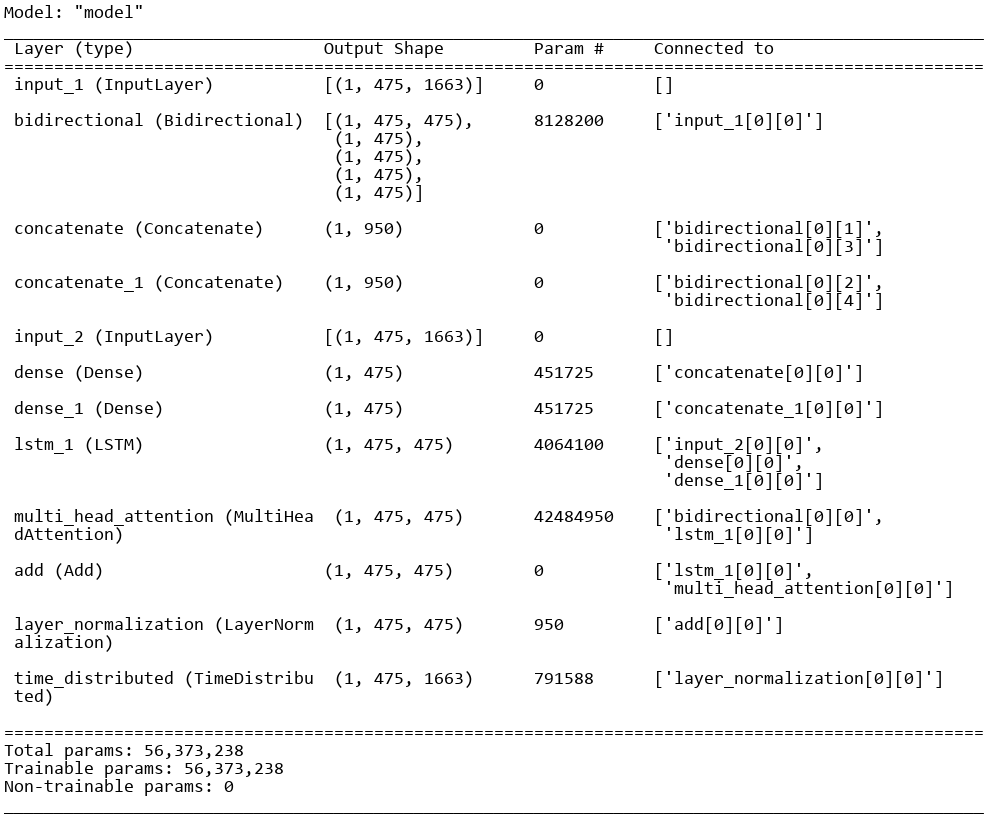
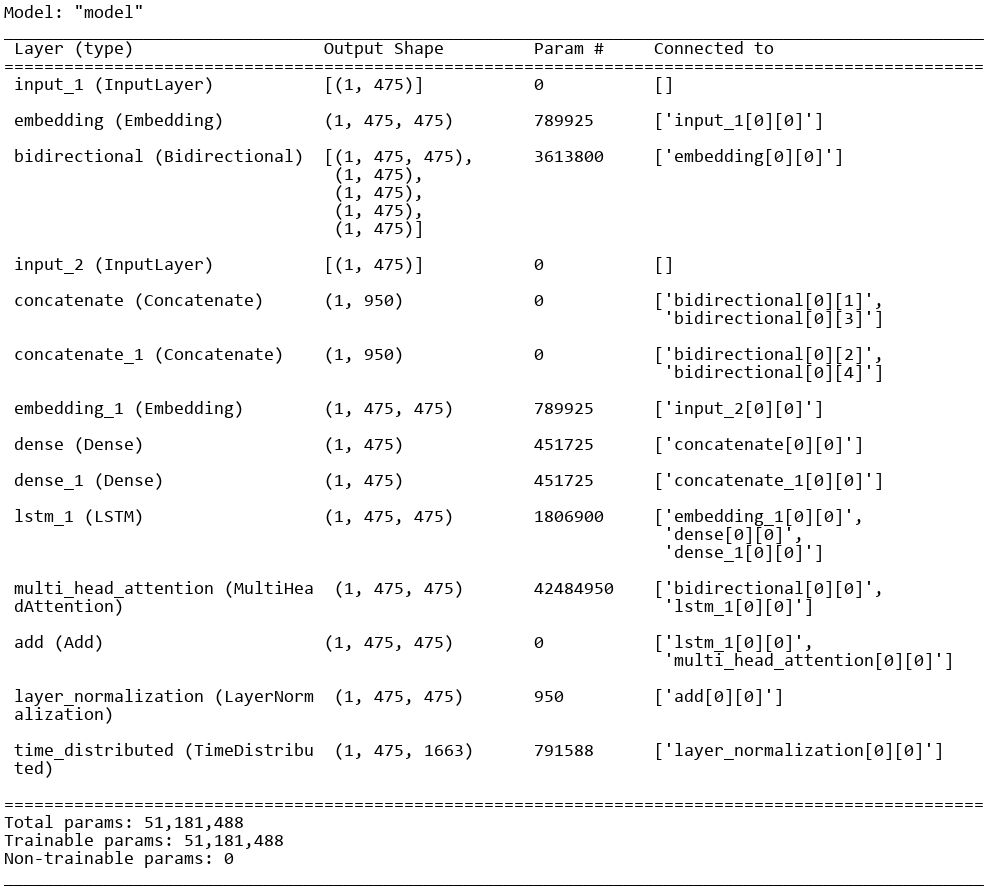
Embedding fix

diff --git a/src/chatbot/network/model.py b/src/chatbot/network/model.py
@@ -17,11 +17,11 @@ class Sec2SecModel:
         return self.model.predict([phrase_sequence, target_seq])
 
     def create(self, max_phrase_size, vocab_size):
-        encoder_inputs = keras.layers.Input(shape=(max_phrase_size, vocab_size), batch_size=1)
-        decoder_inputs = keras.layers.Input(shape=(max_phrase_size, vocab_size), batch_size=1)
+        encoder_inputs = keras.layers.Input(shape=(max_phrase_size, ), batch_size=1)
+        decoder_inputs = keras.layers.Input(shape=(max_phrase_size, ), batch_size=1)
 
-        encoder_outputs, encoder_states = self.__create_encoder(encoder_inputs, max_phrase_size)
-        decoder_outputs = self.__create_decoder(decoder_inputs, encoder_states, max_phrase_size)
+        encoder_outputs, encoder_states = self.__create_encoder(encoder_inputs, max_phrase_size, vocab_size)
+        decoder_outputs = self.__create_decoder(decoder_inputs, encoder_states, max_phrase_size, vocab_size)
         attention = self.__create_attention(encoder_outputs, decoder_outputs, max_phrase_size)
         dense_outputs = self.__create_exit_layer(attention, vocab_size)
 
@@ -57,13 +57,15 @@ class Sec2SecModel:
     def plot_model(self, file_name):
         keras.utils.plot_model(self.model, show_shapes=True, to_file=file_name)
 
-    def __create_encoder(self, encoder_inputs, max_phrase_size):
+    def __create_encoder(self, encoder_inputs, max_phrase_size, vocab_size):
+        embedd = keras.layers.Embedding(input_dim=vocab_size, output_dim=max_phrase_size, input_length=max_phrase_size)
         encoder_lstm = keras.layers.LSTM(
             max_phrase_size, return_state=True, return_sequences=True, recurrent_initializer='glorot_uniform'
         )
         bidirectional_lstm = keras.layers.Bidirectional(encoder_lstm, merge_mode='sum')
 
-        encoder_outputs, forward_h, forward_c, backward_h, backward_c = bidirectional_lstm(encoder_inputs)
+        embedding_output = embedd(encoder_inputs)
+        encoder_outputs, forward_h, forward_c, backward_h, backward_c = bidirectional_lstm(embedding_output)
 
         state_h = keras.layers.Concatenate()([forward_h, backward_h])
         state_c = keras.layers.Concatenate()([forward_c, backward_c])
@@ -83,11 +85,13 @@ class Sec2SecModel:
 
         return output
 
-    def __create_decoder(self, decoder_inputs, encoder_states, max_phrase_size):
+    def __create_decoder(self, decoder_inputs, encoder_states, max_phrase_size, vocab_size):
+        embedd = keras.layers.Embedding(input_dim=vocab_size, output_dim=max_phrase_size, input_length=max_phrase_size)
         decoder_lstm = keras.layers.LSTM(
             max_phrase_size, return_sequences=True, recurrent_initializer='glorot_uniform'
         )
-        decoder_outputs = decoder_lstm(decoder_inputs, initial_state=encoder_states)
+        embedding_output = embedd(decoder_inputs)
+        decoder_outputs = decoder_lstm(embedding_output, initial_state=encoder_states)
         return decoder_outputs
 
     def __create_exit_layer(self, decoder_outputs, vocab_size):

diff --git a/src/chatbot/chatbot.py b/src/chatbot/chatbot.py
@@ -10,8 +10,6 @@ singleton_vocabulary = Vocabulary()
 
 class Chatbot:
     def __init__(self):
-        self.questions_len = 0
-
         self.text_pln = singleton_text_pln
         self.vocabulary = singleton_vocabulary
         self.conversations = singleton_conversations
@@ -21,8 +19,6 @@ class Chatbot:
     def create(self):
         self.conversations.load_and_process(self.vocabulary.END_TAG)
         questions, answers = self.conversations.get_all_questions_and_answers()
-
-        self.questions_len = len(questions)
 
         max_phrase_size = 0
         max_phrase = ''
@@ -44,7 +40,13 @@ class Chatbot:
             questions, answers = self.conversations.get_questions_and_answers_of_index(index)
             return self.vocabulary.phrases2data(questions, answers)
 
-        return self.model.fit(get_conversation_data, self.conversations.get_size(), self.questions_len, epochs, metrics)
+        return self.model.fit(
+            get_conversation_data,
+            self.conversations.get_size(),
+            self.conversations.get_questions_len(),
+            epochs,
+            metrics
+        )
 
     def execute(self, question, last_answer):
         last_answer = self.text_pln.clear_and_tagging_phrases(

diff --git a/src/chatbot/pln/vocabulary.py b/src/chatbot/pln/vocabulary.py
@@ -20,15 +20,18 @@ class Vocabulary:
 
     def phrases2data(self, questions, answers):
         encoder_input_data = self.phrases2ints(questions)
+
         decoder_input_data = self.phrases2ints([self.END_TAG] + answers[:len(answers)-1])
+
         decoder_output_data = self.phrases2ints(answers)
+        decoder_output_data = to_categorical(decoder_output_data, self.get_size())
 
         return encoder_input_data, decoder_input_data, decoder_output_data
 
     def phrases2ints(self, phrases):
         tokens_list = self.tokenizer.texts_to_sequences(phrases)
         padded_phrase = self.__pad_sequences(tokens_list)
-        return to_categorical(padded_phrase, self.get_size())
+        return padded_phrase
 
     def phrase2ints(self, phrase):
         return self.phrases2ints([phrase])

diff --git a/src/chatbot/pln/conversations.py b/src/chatbot/pln/conversations.py
@@ -10,6 +10,7 @@ class Conversations:
         self.conversations = []
         self.max_phrase_size = 0
         self.text_pln = text_pln
+        self.questions_len = 0
 
     def get_all_questions_and_answers(self):
         questions = []
@@ -20,6 +21,8 @@ class Conversations:
             answers += item['answers']
 
         print("questions: {}, answers: {}".format(len(questions), len(answers)))
+
+        self.questions_len = len(questions)
 
         return questions, answers
 
@@ -48,6 +51,9 @@ class Conversations:
 
     def get_size(self):
         return len(self.conversations)
+
+    def get_questions_len(self):
+        return self.questions_len
 
     def __read_file(self, path):
         f = open(path, 'rb')
